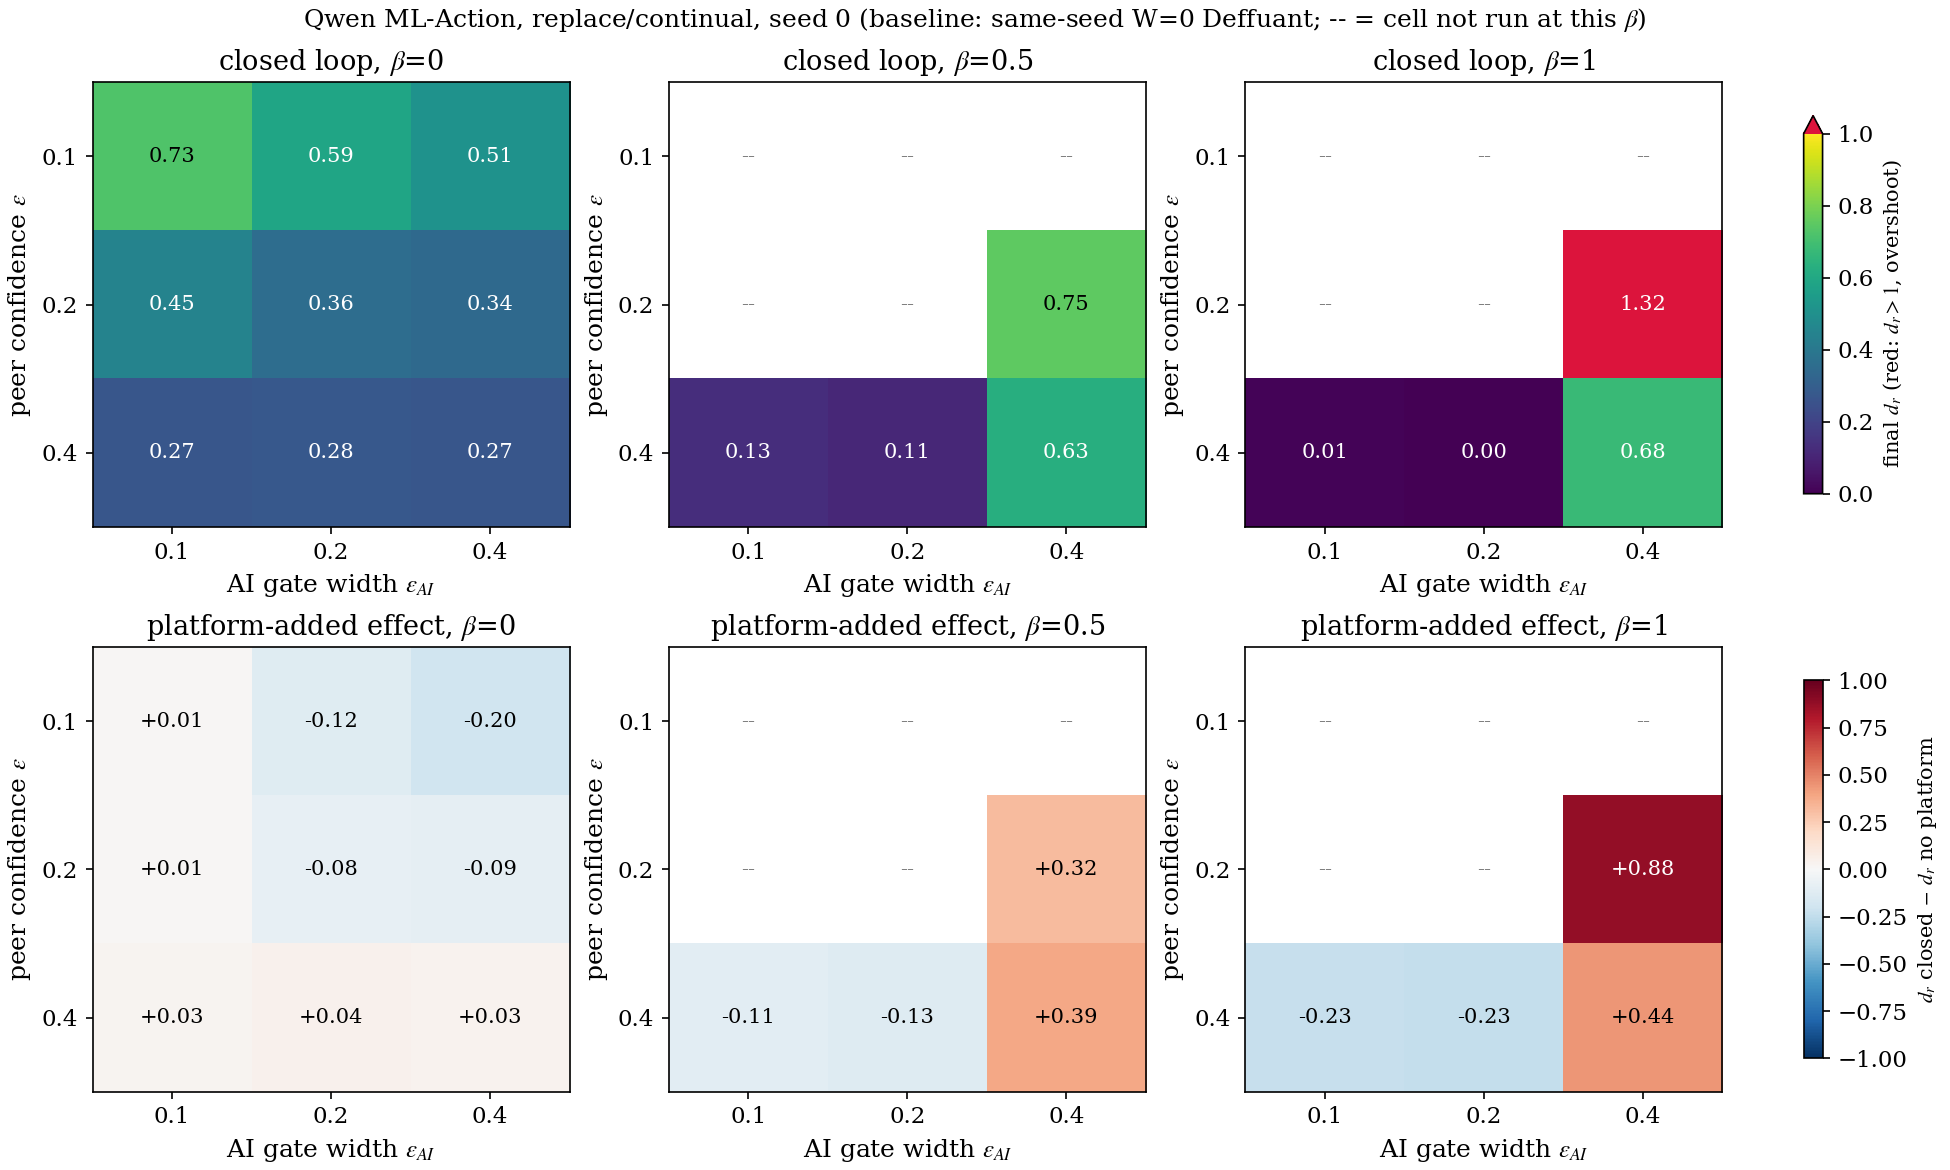
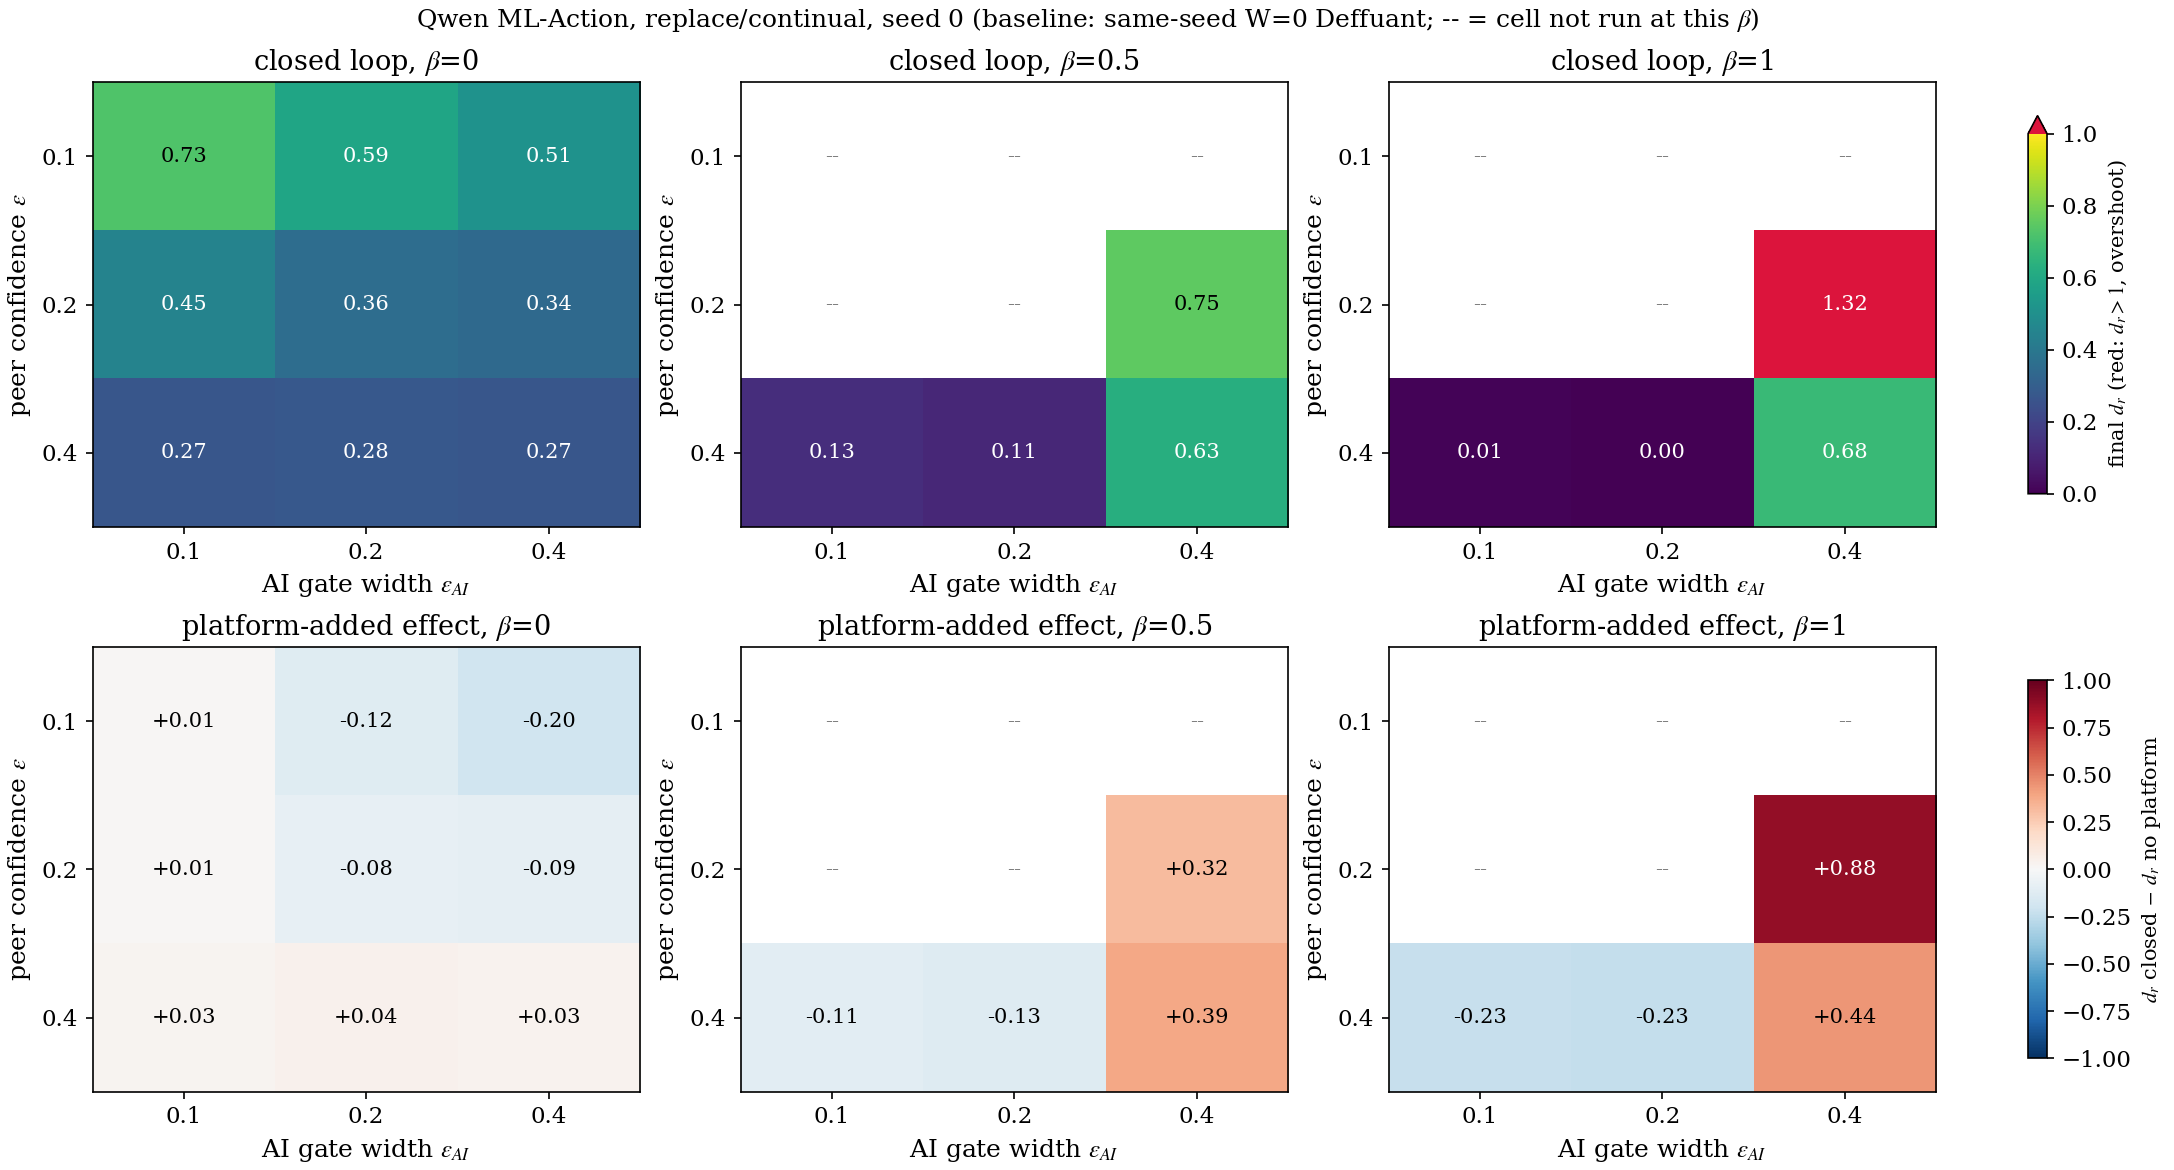
Separate saturated-dose beta=3 world plane figure

diff --git a/experiments/llm/plot_qwen_heatmaps.py b/experiments/llm/plot_qwen_heatmaps.py
@@ -156,7 +156,7 @@ WORLD_BETAS = [("0", "b0"), ("0.5", "b0p5"), ("1", "b1")]
 
 def world_tag(ec, ac, bkey):
     cell = f"{ec}_{ac}"
-    for t in (f"mla2dv2_{cell}_{bkey}_s0" if bkey == "b0" else "",
+    for t in (f"mla2dv2_{cell}_{bkey}_s0" if bkey in ("b0", "b3") else "",
               f"mlat_{cell}_rep_{bkey}_s0",
               f"mla2bv2_{cell}_{bkey}_s0"):
         if t and (RUNS / t / "trajectory.pt").exists():
@@ -170,39 +170,48 @@ for cell in CELLS:
     if s1 and s3:
         print(f"saturation check {cell}: b1 dr={s1['dr']:.2f}  b3 dr={s3['dr']:.2f}")
 
-world = {}
-for blab, bkey in WORLD_BETAS:
-    M = np.full((len(EPS_LEVELS), len(AI_LEVELS)), np.nan)
-    for i, (ec, _) in enumerate(EPS_LEVELS):
-        for j, (ac, _) in enumerate(AI_LEVELS):
-            s = stats(world_tag(ec, ac, bkey) or "")
-            if s:
-                M[i, j] = s["dr"]
-    world[blab] = M
+def world_fig(betas, fname, note):
+    world = {}
+    for blab, bkey in betas:
+        M = np.full((len(EPS_LEVELS), len(AI_LEVELS)), np.nan)
+        for i, (ec, _) in enumerate(EPS_LEVELS):
+            for j, (ac, _) in enumerate(AI_LEVELS):
+                s = stats(world_tag(ec, ac, bkey) or "")
+                if s:
+                    M[i, j] = s["dr"]
+        world[blab] = M
+    fig, axes = plt.subplots(2, len(betas), figsize=(4.3 * len(betas) + 1.6, 7.8),
+                             constrained_layout=True)
+    axes = axes.reshape(2, len(betas))
+    for j, (blab, _) in enumerate(betas):
+        M = world[blab]
+        im = axes[0, j].imshow(M, cmap=DR_CMAP, vmin=0, vmax=1, aspect="auto")
+        annotate(axes[0, j], M, vmin=0, vmax=1, cmap=DR_CMAP)
+        axes[0, j].set_title(f"closed loop, $\\beta$={blab}", fontsize=13)
+        A = M - np.array([[base[e]] for _, e in EPS_LEVELS])
+        im2 = axes[1, j].imshow(A, cmap="RdBu_r", vmin=-1.0, vmax=1.0, aspect="auto")
+        annotate(axes[1, j], A, fmt="{:+.2f}", vmin=-1.0, vmax=1.0, cmap="RdBu_r")
+        axes[1, j].set_title(f"platform-added effect, $\\beta$={blab}", fontsize=13)
+    for ax in axes.flat:
+        ax.set_xticks(range(len(AI_LEVELS)), [f"{v:.1f}" for _, v in AI_LEVELS])
+        ax.set_yticks(range(len(EPS_LEVELS)), [f"{v:.1f}" for _, v in EPS_LEVELS])
+        ax.set_xlabel("AI gate width $\\epsilon_{AI}$", fontsize=12)
+        ax.set_ylabel("peer confidence $\\epsilon$", fontsize=12)
+    fig.colorbar(im, ax=axes[0, :], label="final $d_r$ (red: $d_r>1$, overshoot)",
+                 shrink=0.85, extend="max")
+    fig.colorbar(im2, ax=axes[1, :], label="$d_r$ closed $-$ $d_r$ no platform", shrink=0.85)
+    fig.suptitle(note, fontsize=12)
+    fig.savefig(FIGS / fname, dpi=150)
+    plt.close(fig)
+    print("saved", FIGS / fname)
 
-fig, axes = plt.subplots(2, 3, figsize=(13.0, 7.8), constrained_layout=True)
-for j, (blab, _) in enumerate(WORLD_BETAS):
-    M = world[blab]
-    im = axes[0, j].imshow(M, cmap=DR_CMAP, vmin=0, vmax=1, aspect="auto")
-    annotate(axes[0, j], M, vmin=0, vmax=1, cmap=DR_CMAP)
-    axes[0, j].set_title(f"closed loop, $\\beta$={blab}", fontsize=13)
-    A = M - np.array([[base[e]] for _, e in EPS_LEVELS])
-    im2 = axes[1, j].imshow(A, cmap="RdBu_r", vmin=-1.0, vmax=1.0, aspect="auto")
-    annotate(axes[1, j], A, fmt="{:+.2f}", vmin=-1.0, vmax=1.0, cmap="RdBu_r")
-    axes[1, j].set_title(f"platform-added effect, $\\beta$={blab}", fontsize=13)
-for ax in axes.flat:
-    ax.set_xticks(range(len(AI_LEVELS)), [f"{v:.1f}" for _, v in AI_LEVELS])
-    ax.set_yticks(range(len(EPS_LEVELS)), [f"{v:.1f}" for _, v in EPS_LEVELS])
-    ax.set_xlabel("AI gate width $\\epsilon_{AI}$", fontsize=12)
-    ax.set_ylabel("peer confidence $\\epsilon$", fontsize=12)
-fig.colorbar(im, ax=axes[0, :], label="final $d_r$ (red: $d_r>1$, overshoot)",
-             shrink=0.85, extend="max")
-fig.colorbar(im2, ax=axes[1, :], label="$d_r$ closed $-$ $d_r$ no platform", shrink=0.85)
-fig.suptitle("Qwen ML-Action, replace/continual, seed 0 (baseline: same-seed W=0 Deffuant; "
-             "-- = cell not run at this $\\beta$)", fontsize=12)
-fig.savefig(FIGS / "heatmap_world_plane.png", dpi=150)
-plt.close(fig)
-print("saved", FIGS / "heatmap_world_plane.png")
+
+world_fig(WORLD_BETAS, "heatmap_world_plane.png",
+          "Qwen ML-Action, replace/continual, seed 0 (baseline: same-seed W=0 Deffuant; "
+          "-- = cell not run at this $\\beta$)")
+world_fig([("0", "b0"), ("3", "b3")], "heatmap_world_plane_b3.png",
+          "Qwen ML-Action, full grid at the saturated dose $\\beta$=3 "
+          "(replace/continual, seed 0; $\\beta$=3 $\\approx$ $\\beta$=1 where both exist)")
 
 
 # Fig 2: knob plane
